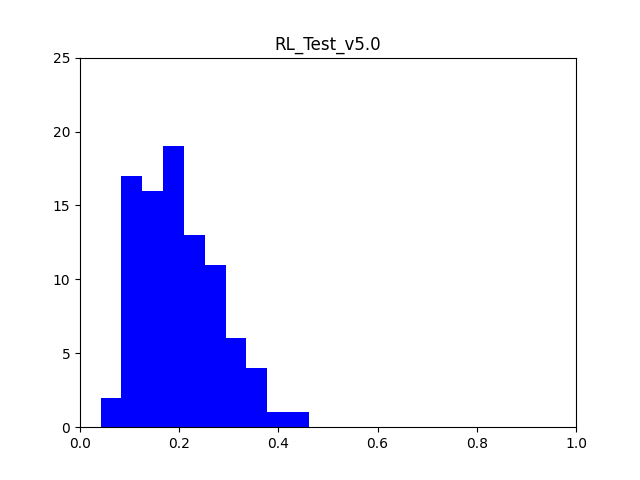
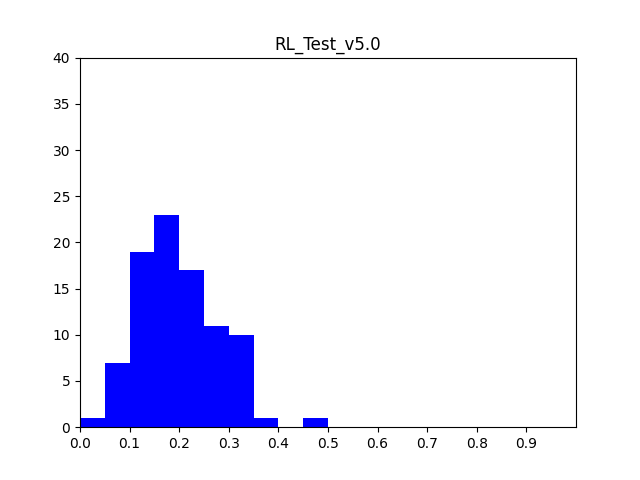
docs: img

diff --git a/Gym_fightingICE/log/point/test_result.py b/Gym_fightingICE/log/point/test_result.py
@@ -25,11 +25,12 @@ def main(folder_path):
             cnt += 1
         score.append(float(row[2])/(float(row[1])+float(row[2])))
     print(cnt)
-    plt.xlim(0.0, 1.0)
-    plt.ylim(0, 25)
-
-    plt.hist(list(filter(lambda s: s>=0.5, score)), color='red')
-    plt.hist(list(filter(lambda s: s<0.5, score)), color='blue')
+    plt.xlim(0, 1)
+    plt.ylim(0, 40)
+    plt.xticks(np.arange(0.0, 1.0, 0.1))
+    # binwidth = 0.01
+    plt.hist(list(filter(lambda s: s>=0.5, score)), color='red', bins=np.arange(0.0, 1.0, 0.05))
+    plt.hist(list(filter(lambda s: s<0.5, score)), color='blue', bins=np.arange(0.0, 1.0, 0.05))
     plt.title(folder_path)
     plt.savefig(os.path.join(folder_path, 'result'))
     plt.show()
